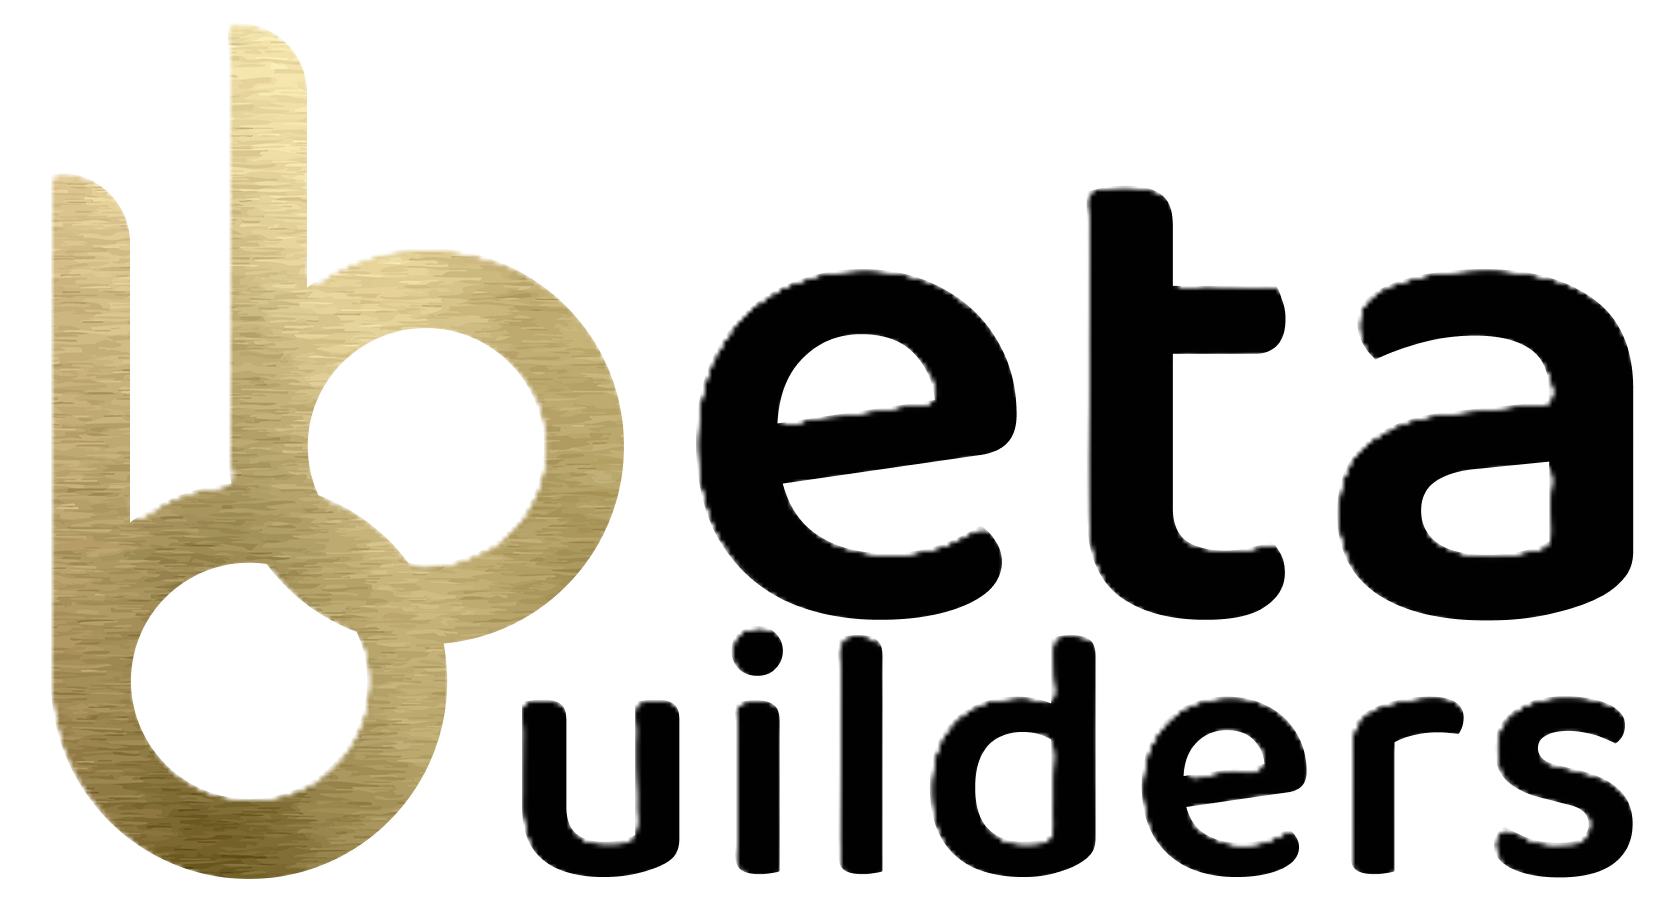
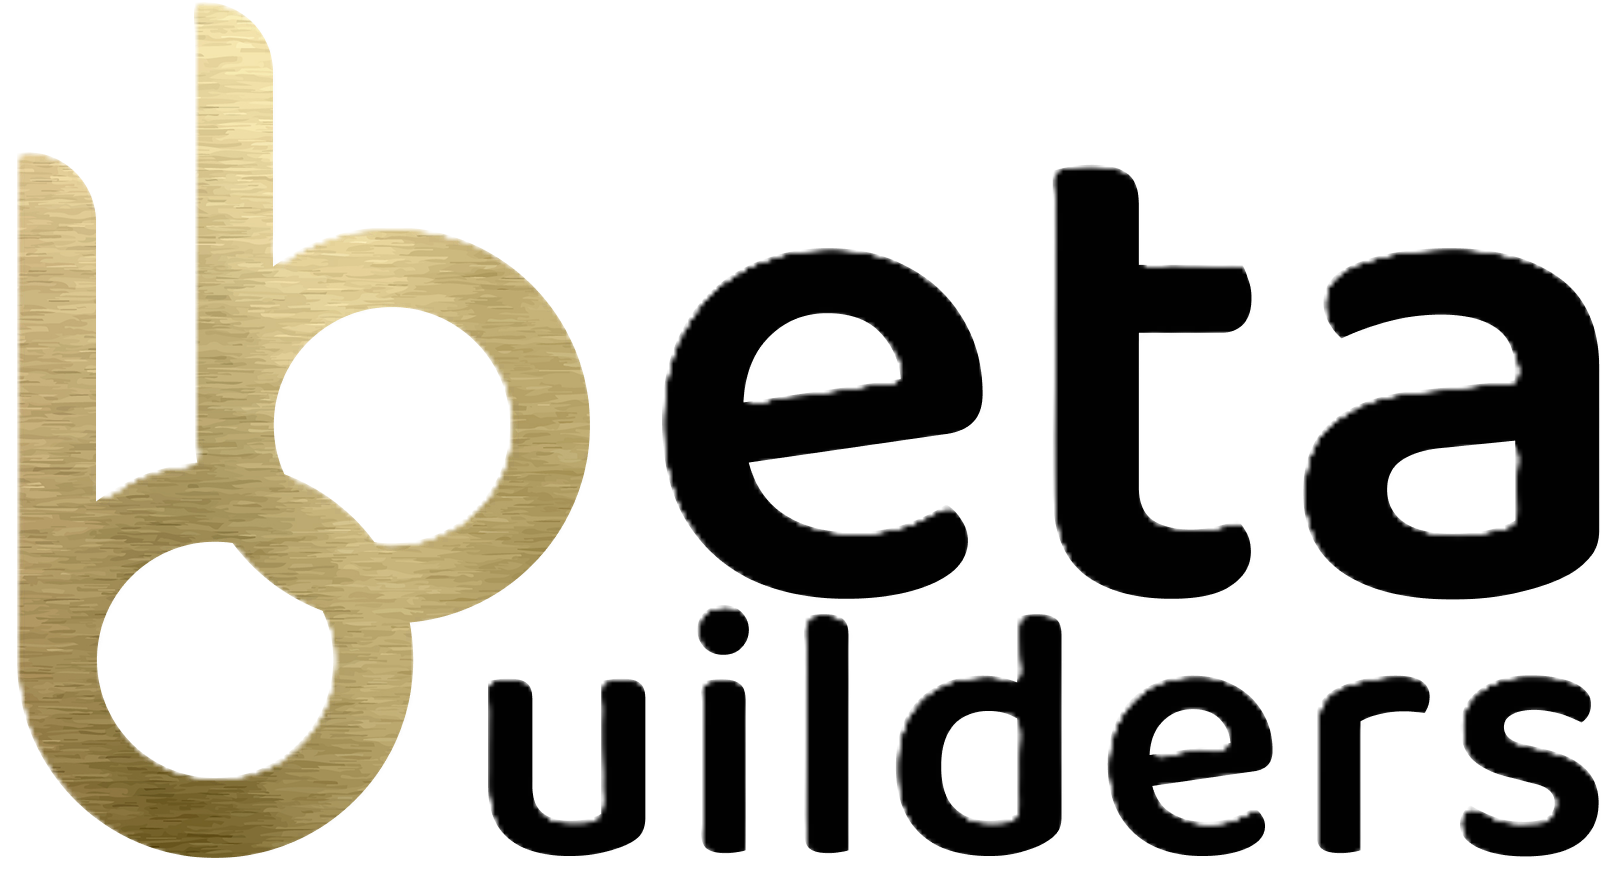
Update header styles for improved alignment and responsiveness; replace event images with new assets for better visual appeal.

diff --git a/index.html b/index.html
@@ -57,6 +57,11 @@
       }
     }
 
+    header img {
+      margin-top: -2px; /* nudge logo up to align better */
+    }
+    
+
     .glass-effect {
       backdrop-filter: blur(20px);
       background: rgba(255, 255, 255, 0.1);
@@ -147,11 +152,18 @@
           transform: scale(0.5);
           transform-origin: left center;
           display: inline-block;
-          margin-left: 0.05rem;  /* smaller left margin */
+          margin-left: 0.15rem;  /* smaller left margin */
         }
       }
-      
-      
+
+      /* Desktop spacing for tagline */
+      @media (min-width: 1024px) {
+        header .tagline {
+          margin-left: 2.5rem; /* or more, adjust until it looks right */
+          display: flex;
+          align-items: center; /* vertically center with logo */
+        }
+      }
 
     }
   
@@ -160,19 +172,19 @@
 
 <body class="bg-gray-50 text-gray-800">
   <header class="bg-white backdrop-blur-md shadow-lg sticky top-0 z-50 border-b border-gray-100">
-    <div class="max-w-7xl mx-auto px-4 py- sm:px-6 sm:py-2">
+    <div class="max-w-7xl mx-auto px-2 py-1 sm:px-6 sm:py-1">
       <div class="flex items-center justify-between flex-wrap">
-        <div class="flex items-center justify-between flex-wrap md:flex-nowrap md:space-x-6">
-          <a href="/" class="flex items-center space-x-2 sm:space-x-4">
+        <div class="flex items-center justify-between flex-wrap md:flex-nowrap">
+          <a href="/" class="flex items-center">
             <img
               src="images/betabuilder_gold2.png"
               alt="BetaBuilders Logo"
-              class="w-6 h-6 sm:w-12 sm:h-12 object-contain origin-left transition-transform duration-200 group-hover:scale-[1.55] sm:group-hover:scale-[1.55]"
-              style="transform: scaleX(1.275) scaleY(1.275); background: transparent;"
+              class="w-8 h-8 sm:w-14 sm:h-14 object-contain origin-left transition-transform duration-200"
+              style="transform: scaleX(1.25) scaleY(1.25); background: transparent;"
             />
           </a>
           <span
-            class="ml-3 text-xs leading-none text-gradient font-medium tracking-wide whitespace-nowrap inline-block sm:ml-10"
+            class="ml-10 sm:ml-10 text-sm sm:text-lg leading-none text-gradient font-semibold tracking-wide whitespace-nowrap inline-block"
           >
             First Pre-Startup Accelerator
           </span>
@@ -1242,7 +1254,7 @@
       <!-- Pitch to Build -->
       <div class="bg-white text-gray-800 rounded-lg shadow-lg overflow-hidden transform transition duration-300 hover:scale-105 hover:shadow-2xl group">
         <div class="overflow-hidden">
-          <img src="images/meetup1.jpg" alt="Pitch to Build Event" class="w-full h-48 object-cover transition-transform duration-300 group-hover:scale-110">
+          <img src="images/meetup2.jpg" alt="Pitch to Build Event" class="w-full h-48 object-cover transition-transform duration-300 group-hover:scale-110">
         </div>
         <div class="p-4">
           <h4 class="text-lg font-semibold mb-2 group-hover:text-purple-600 transition-colors duration-300">Pitch to Build</h4>
@@ -1253,7 +1265,7 @@
       <!-- Founder Interview -->
       <div class="bg-white text-gray-800 rounded-lg shadow-lg overflow-hidden transform transition duration-300 hover:scale-105 hover:shadow-2xl group">
         <div class="overflow-hidden">
-          <img src="images/meetup2.jpg" alt="Founder Interview" class="w-full h-48 object-cover transition-transform duration-300 group-hover:scale-110">
+          <img src="images/meetup4.jpeg" alt="Founder Interview" class="w-full h-48 object-cover transition-transform duration-300 group-hover:scale-110">
         </div>
         <div class="p-4">
           <h4 class="text-lg font-semibold mb-2 group-hover:text-purple-600 transition-colors duration-300">Founder Spotlight</h4>
@@ -1264,7 +1276,7 @@
       <!-- Masterclass -->
       <div class="bg-white text-gray-800 rounded-lg shadow-lg overflow-hidden transform transition duration-300 hover:scale-105 hover:shadow-2xl group">
         <div class="overflow-hidden">
-          <img src="images/meetup3.jpg" alt="Startup Masterclass" class="w-full h-48 object-cover transition-transform duration-300 group-hover:scale-110">
+          <img src="images/meetup5.jpeg" alt="Startup Masterclass" class="w-full h-48 object-cover transition-transform duration-300 group-hover:scale-110">
         </div>
         <div class="p-4">
           <h4 class="text-lg font-semibold mb-2 group-hover:text-purple-600 transition-colors duration-300">Startup Masterclass</h4>
